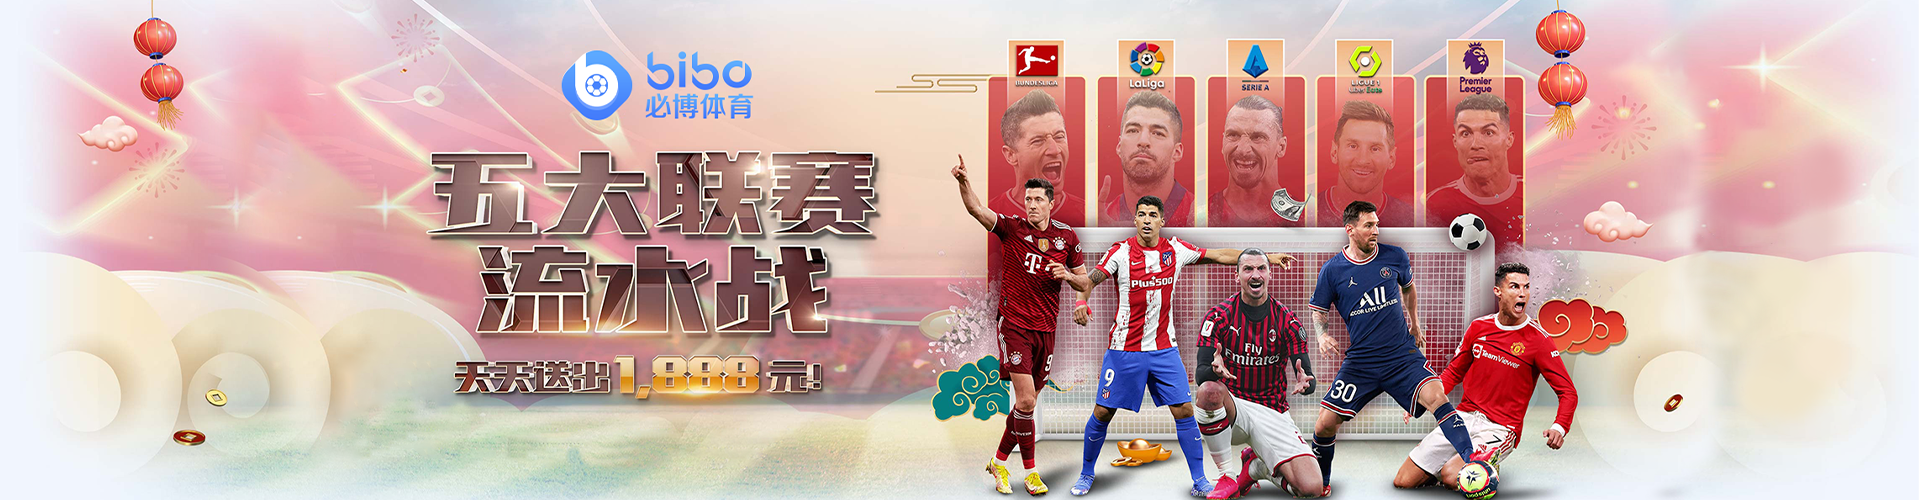
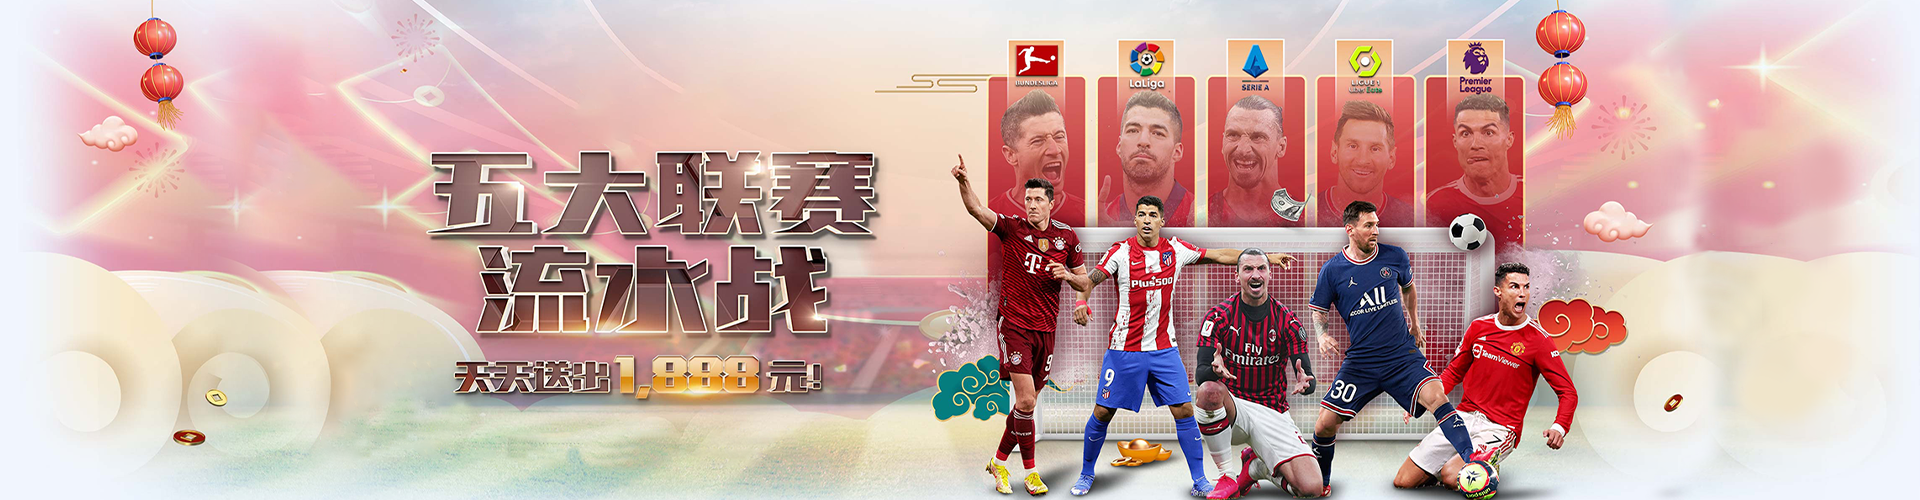
ybty

Changed region(s): [[0.2812, 0.09, 0.4062, 0.3]]

diff --git a/ybty/css/pc.css b/ybty/css/pc.css
@@ -55,8 +55,36 @@ a {
     height: 500px;
     background: url(../images/pc/10017.png) no-repeat center center;
     background-size: 100% 100%;
+    position: relative;
+    margin: 0 auto;
+}
+.logo{
+    position: absolute;
+    width: 188px;
+    height: 71px;
+    top:50px;
+}
+@media screen and (min-width: 1708px) {
+    .logo{
+        left: 29%;
+    }
 }
 
+@media screen and (min-width: 1366px) and (max-width: 1708px) { 
+    .logo{
+        left: 28%;
+    }
+}
+@media screen and (min-width: 1024px) and (max-width: 1366px) { 
+    .logo{
+        left: 26%;
+    }
+}
+@media screen and (max-width: 1024px) {
+    .logo{
+        left: 24%;
+    }
+}
 .yb-lantern{
     width: 933px;
     height: 44px;

diff --git a/ybty/indexpc.html b/ybty/indexpc.html
@@ -29,7 +29,7 @@
 
 <body class="fn-hide-scrollbar">
   <div class="ban">
-    <!-- <img src="./images/pc/10017.png" alt=""> -->
+    <img class="logo" src="./images/pc/pc.png" alt="">
   </div>
   <div class="yb-lantern">
     <img class="lantern-img" src="./images/pc/10019.png" alt="">
